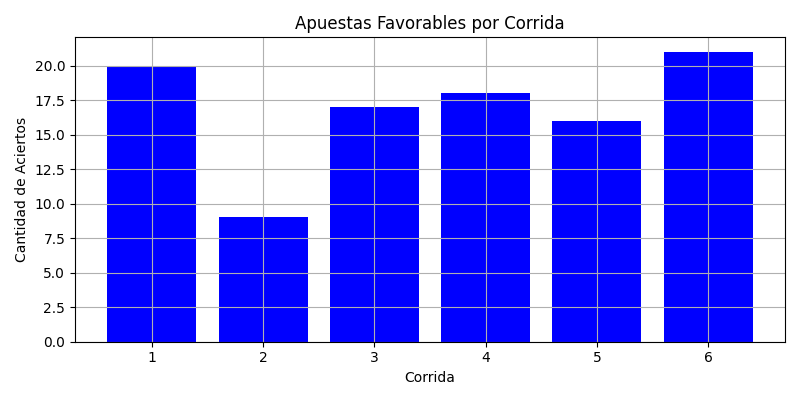
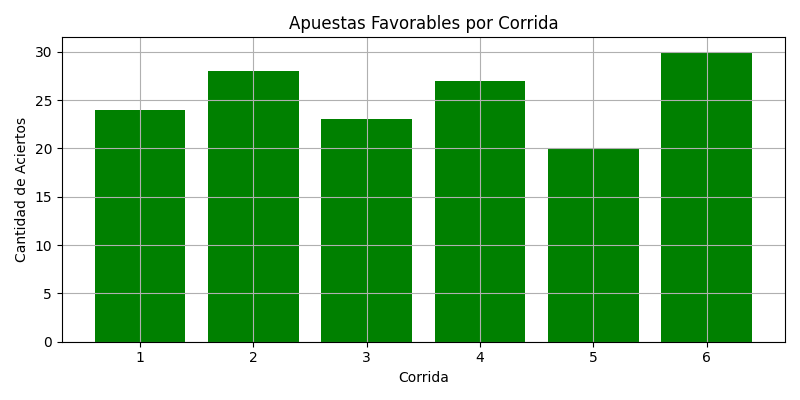
barras y linea

diff --git a/1.2/ruleta.py b/1.2/ruleta.py
@@ -59,7 +59,8 @@ def apostar(tipo_apuesta, valor_apuesta, saldo, capital_infinito, estrategia, hi
     apuesta_actual = apuesta_base
     ronda = 0
     bancarrota = False
-    aciertos = 0  # NUEVO
+    aciertos = 0  # apuestas ganadas
+    no_aciertos = 0  # apuestas perdidas
 
     while ronda < len(historial):
         numero, color = historial[ronda]
@@ -67,7 +68,7 @@ def apostar(tipo_apuesta, valor_apuesta, saldo, capital_infinito, estrategia, hi
         saldo -= apuesta_actual
 
         if gano:
-            aciertos += 1  # CONTAMOS LA APUESTA GANADA
+            aciertos += 1 # contar la favorable
             if tipo_apuesta == "numero":
                 saldo += apuesta_actual * 35
             elif tipo_apuesta == "docena":
@@ -84,6 +85,7 @@ def apostar(tipo_apuesta, valor_apuesta, saldo, capital_infinito, estrategia, hi
                     fibonacci_seq.append(fibonacci_seq[-1] + fibonacci_seq[-2])
                 apuesta_actual = fibonacci_seq[-1]
         else:
+            no_aciertos += 1  # contar la no favorable
             if estrategia == 'm':
                 apuesta_actual *= 2
             elif estrategia == 'd':
@@ -103,11 +105,12 @@ def apostar(tipo_apuesta, valor_apuesta, saldo, capital_infinito, estrategia, hi
 
         ronda += 1
 
-    return saldo_historial, bancarrota, aciertos  # NUEVO
+    return saldo_historial, bancarrota, aciertos, no_aciertos 
+
 
 def graficar_apuestas_favorables(aciertos_por_corrida):
     plt.figure(figsize=(8, 4))
-    plt.bar(range(1, len(aciertos_por_corrida)+1), aciertos_por_corrida, color="blue")
+    plt.bar(range(1, len(aciertos_por_corrida)+1), aciertos_por_corrida, color="green")
     plt.title("Apuestas Favorables por Corrida")
     plt.xlabel("Corrida")
     plt.ylabel("Cantidad de Aciertos")
@@ -116,13 +119,34 @@ def graficar_apuestas_favorables(aciertos_por_corrida):
     plt.savefig("apuestas_favorables.png")
     plt.show()
 
+def graficar_no_favorables(no_aciertos_por_corrida):
+    plt.figure(figsize=(8, 4))
+    plt.bar(range(1, len(no_aciertos_por_corrida)+1), no_aciertos_por_corrida, color="red")
+    plt.title("Apuestas No Favorables por Corrida")
+    plt.xlabel("Corrida")
+    plt.ylabel("Cantidad de Errores")
+    plt.grid(True)
+    plt.tight_layout()
+    plt.savefig("apuestas_no_favorables.png")
+    plt.show()
+
+def graficar_saldos_por_tirada(saldos_por_corrida):
+    plt.figure(figsize=(10, 6))
+    for i, saldo_historial in enumerate(saldos_por_corrida, start=1):
+        plt.plot(saldo_historial, label=f"Corrida {i}")
+    plt.title("Evolución del Saldo por Tirada en Cada Corrida")
+    plt.xlabel("Tirada")
+    plt.ylabel("Saldo")
+    plt.legend()
+    plt.grid(True)
+    plt.tight_layout()
+    plt.yscale("log")
+    plt.savefig("saldos_por_tirada.png")
+    plt.show()
+
 
 def generar_historial(n):
     return [tirar_ruleta() for _ in range(n)]
-
-def graficar_saldo(saldo_historial, estrategia, capital, corrida):
-    """Genera el gráfico de saldo durante las corridas"""
-    plt.scatter(saldo_historial, label=f"Corrida {corrida} ({estrategia})")
 
 def graficar_historial_numeros(historial):
     """Genera gráfico de barras con la frecuencia de números que salieron"""
@@ -136,15 +160,6 @@ def graficar_historial_numeros(historial):
     plt.grid(True)
     plt.show()
 
-def grafico_saldo(estrategia, saldo_historial, capital_infinito,numeroA):
-     # Mostrar gráficos
-    plt.plot(numeroA,saldo_historial)
-    plt.title(f"Estrategia: {estrategia} | Capital: {'Infinito' if capital_infinito else 'Finito'}")
-    plt.xlabel("Número de Apuestas")
-    plt.ylabel("Saldo")
-    plt.legend()
-    plt.grid()
-    plt.show()
 
 
 if __name__ == "__main__":
@@ -174,21 +189,26 @@ if __name__ == "__main__":
         valor_apuesta = input("Ingrese el color a apostar (Rojo o Negro): ")
     
 
-    apuestas_favorables = []  # NUEVO
+    apuestas_favorables = []
+    apuestas_no_favorables = []
+    saldos_por_corrida = []
 
     for corrida in range(1, args.c + 1):
         historial = generar_historial(args.n)
         saldo = 200 if not capital_infinito else 100000
-        saldo_historial, bancarrota, aciertos = apostar(tipo_apuesta, valor_apuesta, saldo, capital_infinito, estrategia, historial)
-
+        saldo_historial, bancarrota, aciertos, no_aciertos = apostar(tipo_apuesta, valor_apuesta, saldo, capital_infinito, estrategia, historial)
+        saldos_por_corrida.append(saldo_historial)
         if bancarrota:
             bancarrotas += 1
 
+        
+        apuestas_no_favorables.append(no_aciertos)
         apuestas_favorables.append(aciertos)
         historial_completo.extend(historial)
 
-
+    graficar_saldos_por_tirada(saldos_por_corrida)
     graficar_apuestas_favorables(apuestas_favorables)
+    graficar_no_favorables(apuestas_no_favorables)
 
     # Graficar la frecuencia de números
     graficar_historial_numeros(historial_completo)
